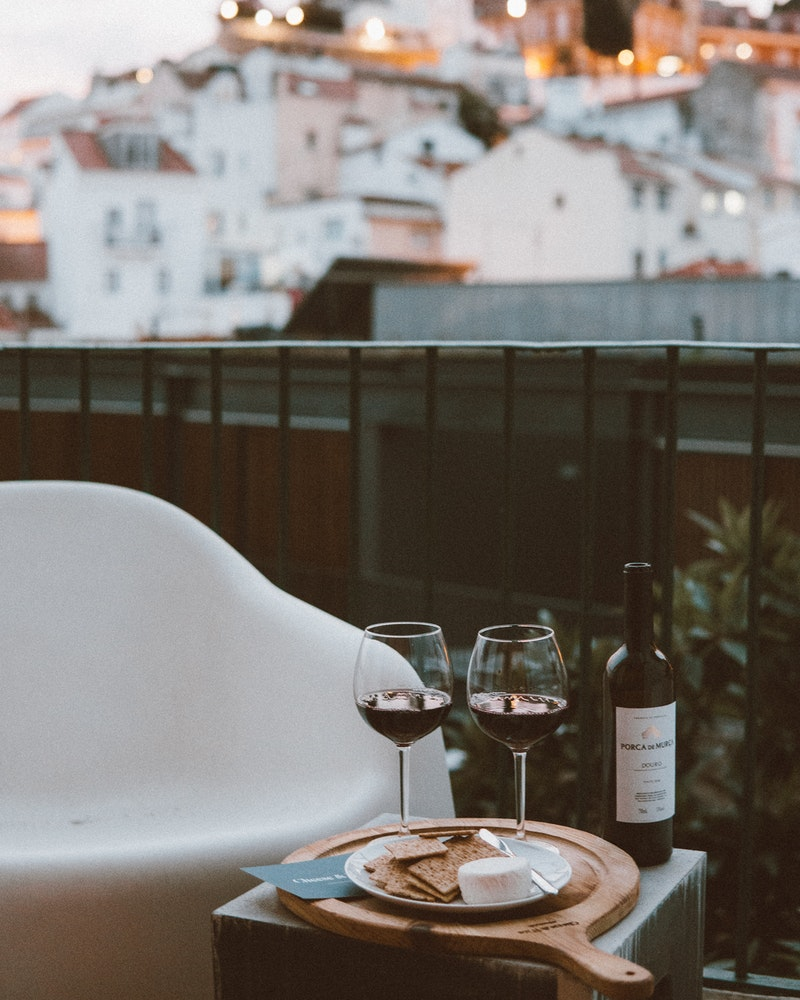
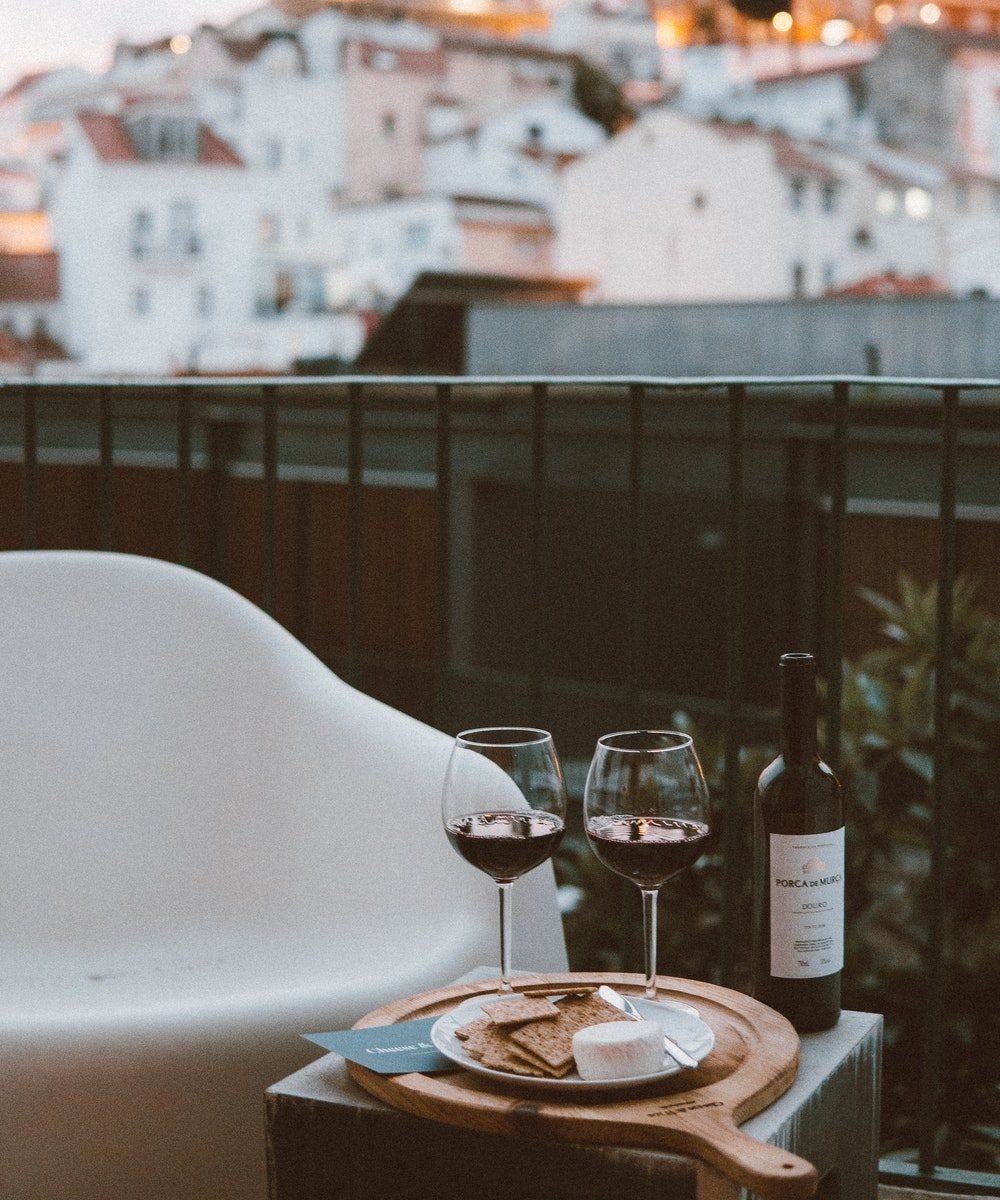
modif sur img et ajout section petitdéj

diff --git a/index.html b/index.html
@@ -36,7 +36,7 @@
                         <a class="nav-link" href="#bar">Bar</a>
                     </li>
                     <li class="nav-item">
-                        <a class="nav-link" href="#">Nos petit-déj</a>
+                        <a class="nav-link" href="#petitdej">Nos petit-déj</a>
                     </li>
                     <li class="nav-item">
                         <a class="nav-link" href="#">Evénements</a>
@@ -98,7 +98,7 @@
                         </p>
                     </div>
                 </div>
-                <div class="col-12 col-md-6">
+                <div class="col-12 col-md-6 imgabout">
                     <img class="img-fluid" id="imgabout" src="media/about.jpg" alt="">
                 </div>
             </div>
@@ -342,6 +342,44 @@
             <span></span>
             <span></span>
             <span></span>
+        </div>
+    </section>
+    <section id="petitdej">
+        <div class="container-fluid">
+            <div class="row">
+                <div class="col-12 col-md-6 text-center">
+                    <div>
+                        <h2>Petit-déjeuner</h2>
+                        <p>
+                            Pas le temps de prendre votre petit déjeuner ?<br>
+                            Pas de soucis, nous vous proposons deux<br>
+                            formules à emporter.
+                        </p>
+                        <h3>Nos formules</h3>
+                    </div>
+                    <div class="containerdej">
+                        <p>viennoiseries au choix<br>
+                           ( petit pain ou croissant )<br>
+                           + <br>
+                           boissons au choix<br>
+                           ( Thé, Café,<br> 
+                           Jus de fruit, Cappuccino )<br>
+                           Prix : 3 €
+                        </p>
+                    </div>
+                    <p>Ou</p>
+                    <div class="containerdej">
+                        <p>
+                            boissons au choix<br>
+                            ( Thé, Café, 
+                            Jus de fruit, Cappuccino )<br>
+                            Prix : 2 €
+                        </p>
+                    </div>
+                </div>
+                <div class="col-12 col-md-6 imgdej">
+                </div>
+            </div>
         </div>
     </section>
 </body>

diff --git a/style.css b/style.css
@@ -193,13 +193,13 @@ div#logoArrow {
 }
 @media screen and (min-width : 700px) {
     #imgabout {
-        border-radius: 0%;
-        border: none;
-        width: 100%;
-        min-height: 100%;   
+        display: none;   
     }
     .col-12.col-md-6 {
         padding: 0;
+    }
+    .col-12.col-md-6.imgabout {
+        background: url(media/aboutDesktop.jpg) 100% fixed;
     }
 }
 
@@ -295,10 +295,6 @@ h2.burgersPhares {
 }
 @media screen and (min-width : 700px) {
     #imgbar {
-        border-radius: 0%;
-        border: none;
-        width: 100%;
-        min-height: 100%;
         display: none;   
     }
     .col-12.col-md-6.bar {
@@ -329,3 +325,26 @@ h2.burgersPhares {
     animation-delay: -0.4s;
 }
 /* /Bar */
+/* petit-déj */
+#petitdej {
+    width: 100%;
+    min-height: 100vh;
+    background-color: #2B2B2B;
+    opacity: 85%;
+}
+.containerdej {
+    background-color: #707070;
+    width: 250px;
+    height: 200px;
+    border: 1px solid #fff;
+}
+.col-12.col-md-6.imgdej {
+    display: none;
+}
+@media screen and (min-width : 700px) {
+    .col-12.col-md-6.imgdej {
+        display: inline;
+        background: url(media/petitdéjDesktop.jpg) 100% fixed;
+    }  
+}
+/* /petit-déj */
